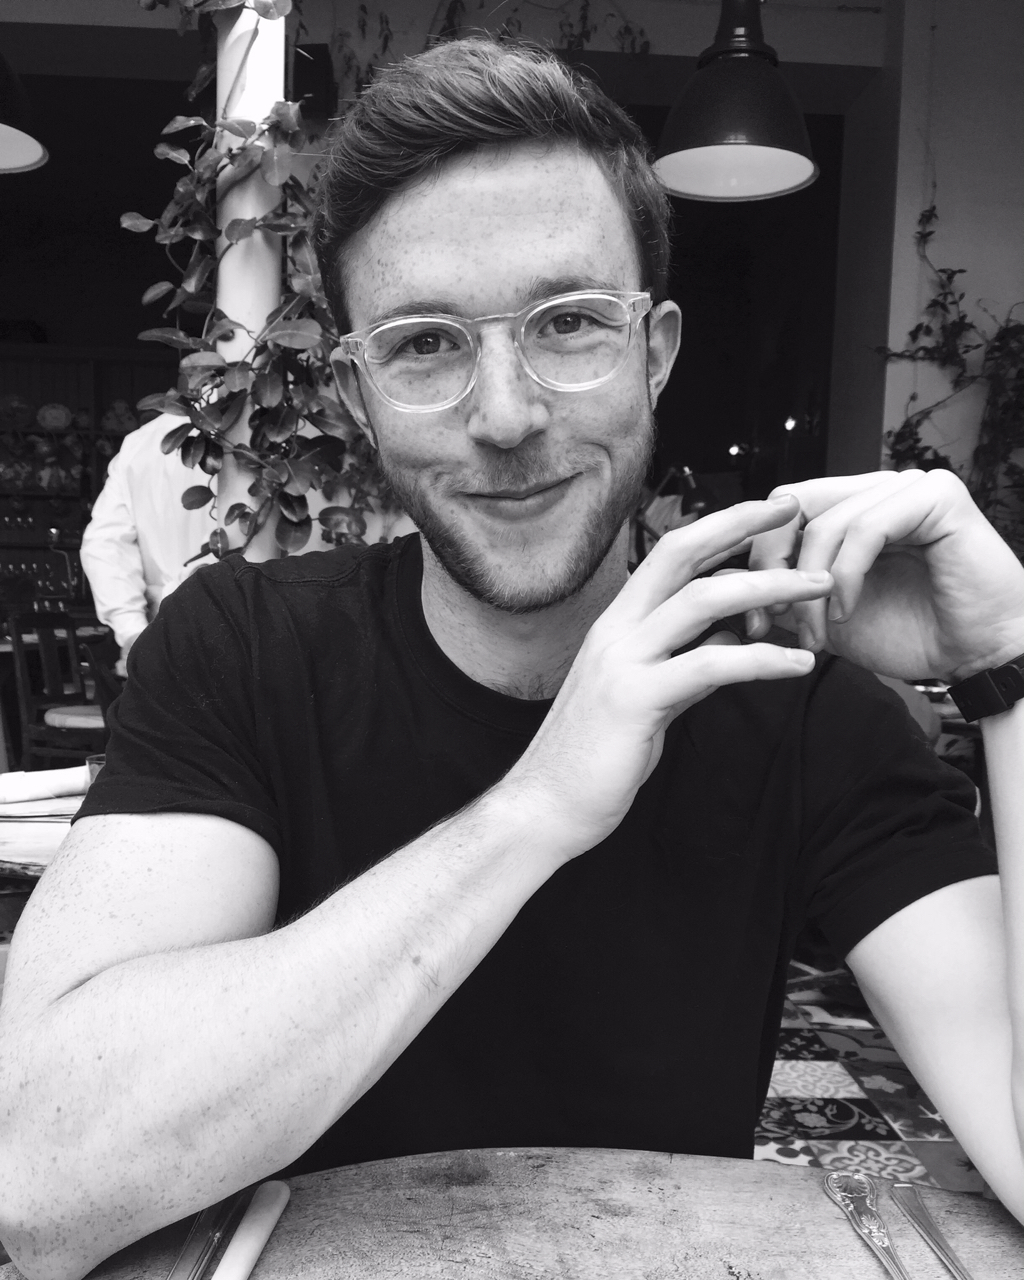
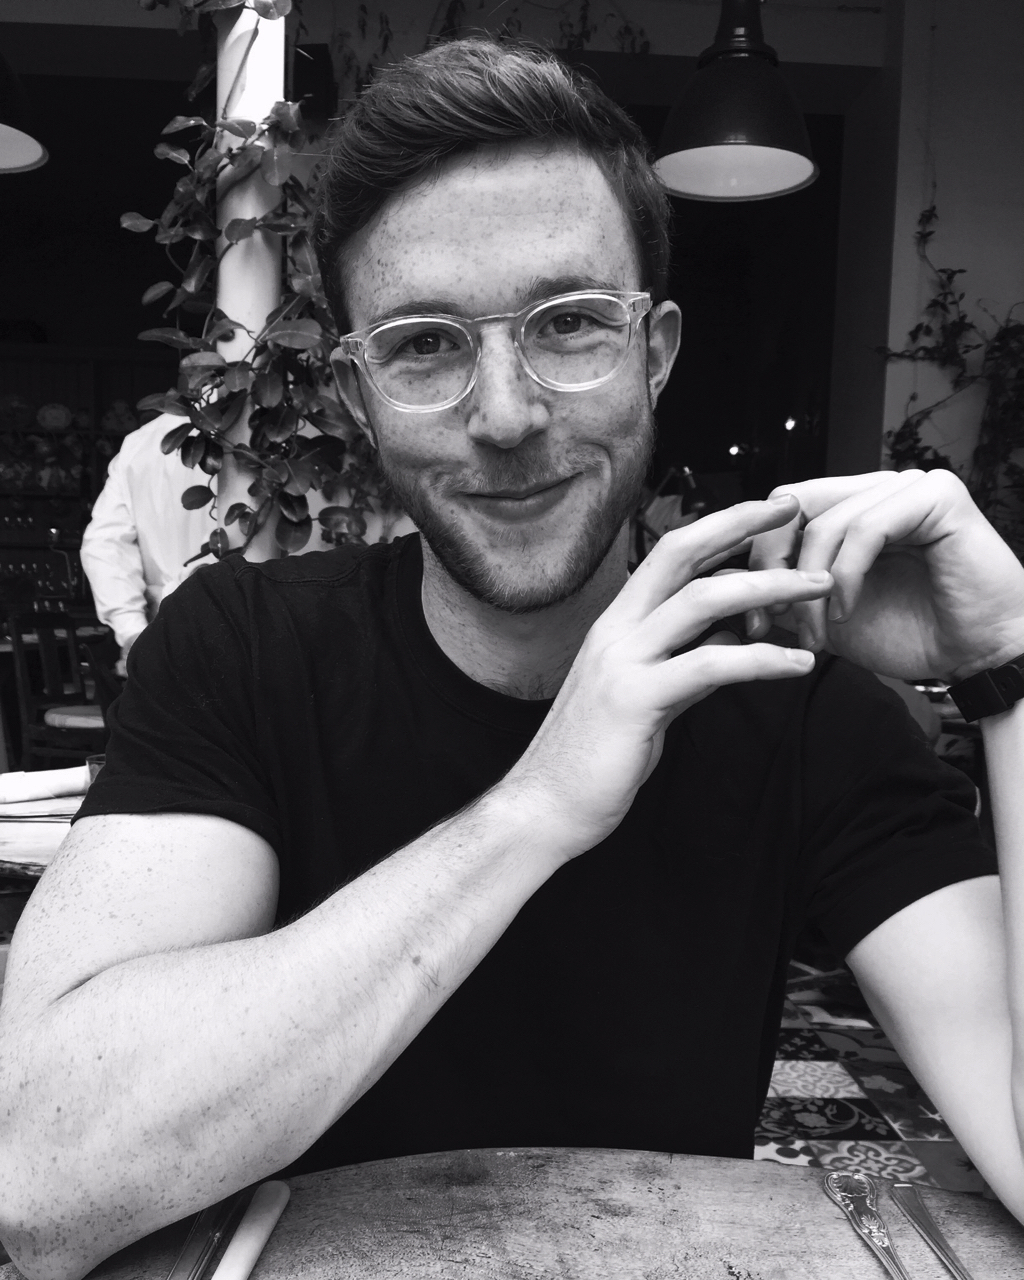
Update photo

diff --git a/input/style/typography.css b/input/style/typography.css
@@ -1,9 +1,9 @@
 /* font stacks don't work. Check [this issue](https://github.com/css-modules/postcss-modules-values/issues/21) to see if it's been resolved. Copy paste for now.  */
 /* @value fontStack: -apple-system, ".SFNSText-Regular", "Roboto", "Times New Roman", serif; */
 
-@value small: 2.2vmax;
-@value medium: 3.2vmax;
-@value large: 4vmax;
+@value small: 5vw;
+@value medium: 4vw;
+@value large: 4vw;
 
 @value lineHeight: 1.4;
 

diff --git a/input/about/about.css b/input/about/about.css
@@ -15,7 +15,7 @@
   -webkit-text-fill-color: transparent;
   color: light;
   font-family: -apple-system, ".SFNSText-Medium", "Roboto", "Nitti Grotesk", HelveticaNeue, sans-serif;
-  text-shadow: 2px -2px light;
+  text-shadow: 1px -1px light;
   font-size: smallSize;
   font-weight: regular;
   line-height: 1.4;
@@ -35,6 +35,7 @@
 @media smallBp {
   .text {
     font-size: mediumSize;
+    text-shadow: 2px -2px light;
   }
 }
 

diff --git a/input/root/root.css b/input/root/root.css
@@ -1,14 +1,9 @@
-@value light, tertiary from '../style/color.css';
+@value light, dark from '../style/color.css';
 
 .root {
   min-height: 100vh;
   height: 100%;
   padding: 5%;
-  background-color: black;
+  background-color: dark;
   display: flex;
-}
-
-:global ::selection {
-    background-color: inherit;
-    color: tertiary;
 }

diff --git a/input/about/About.js b/input/about/About.js
@@ -38,7 +38,7 @@ const About = () => {
     description: 'Photo of Max',
     src: photo,
     style: {
-      'opacity': .8,
+      'opacity': 1,
     },
   })
 

diff --git a/input/style/color.css b/input/style/color.css
@@ -1,5 +1,5 @@
 @value dark: #201e21;
-@value light: #fffbf2;
+@value light: #fff8ea;
 @value one: #89C4F7;
 @value two: #77D5CD;
 @value three: #A6A7FC;
